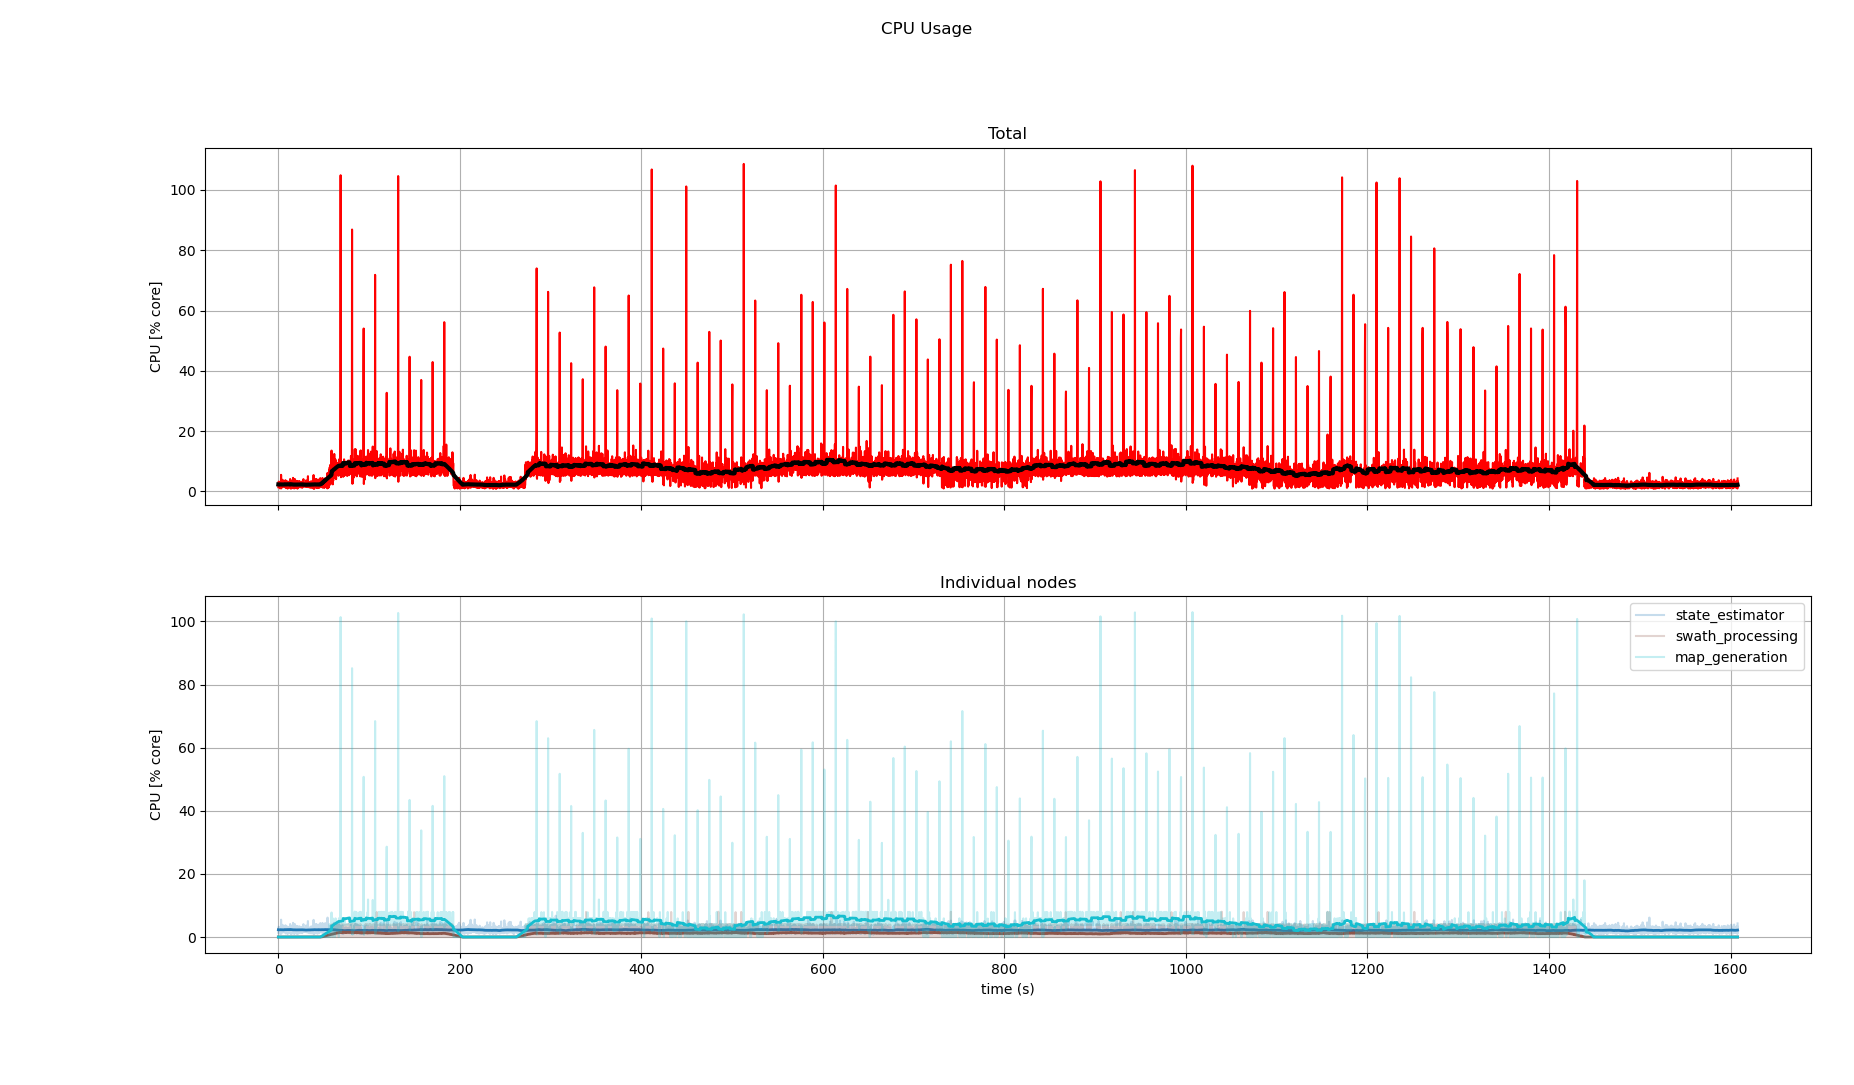
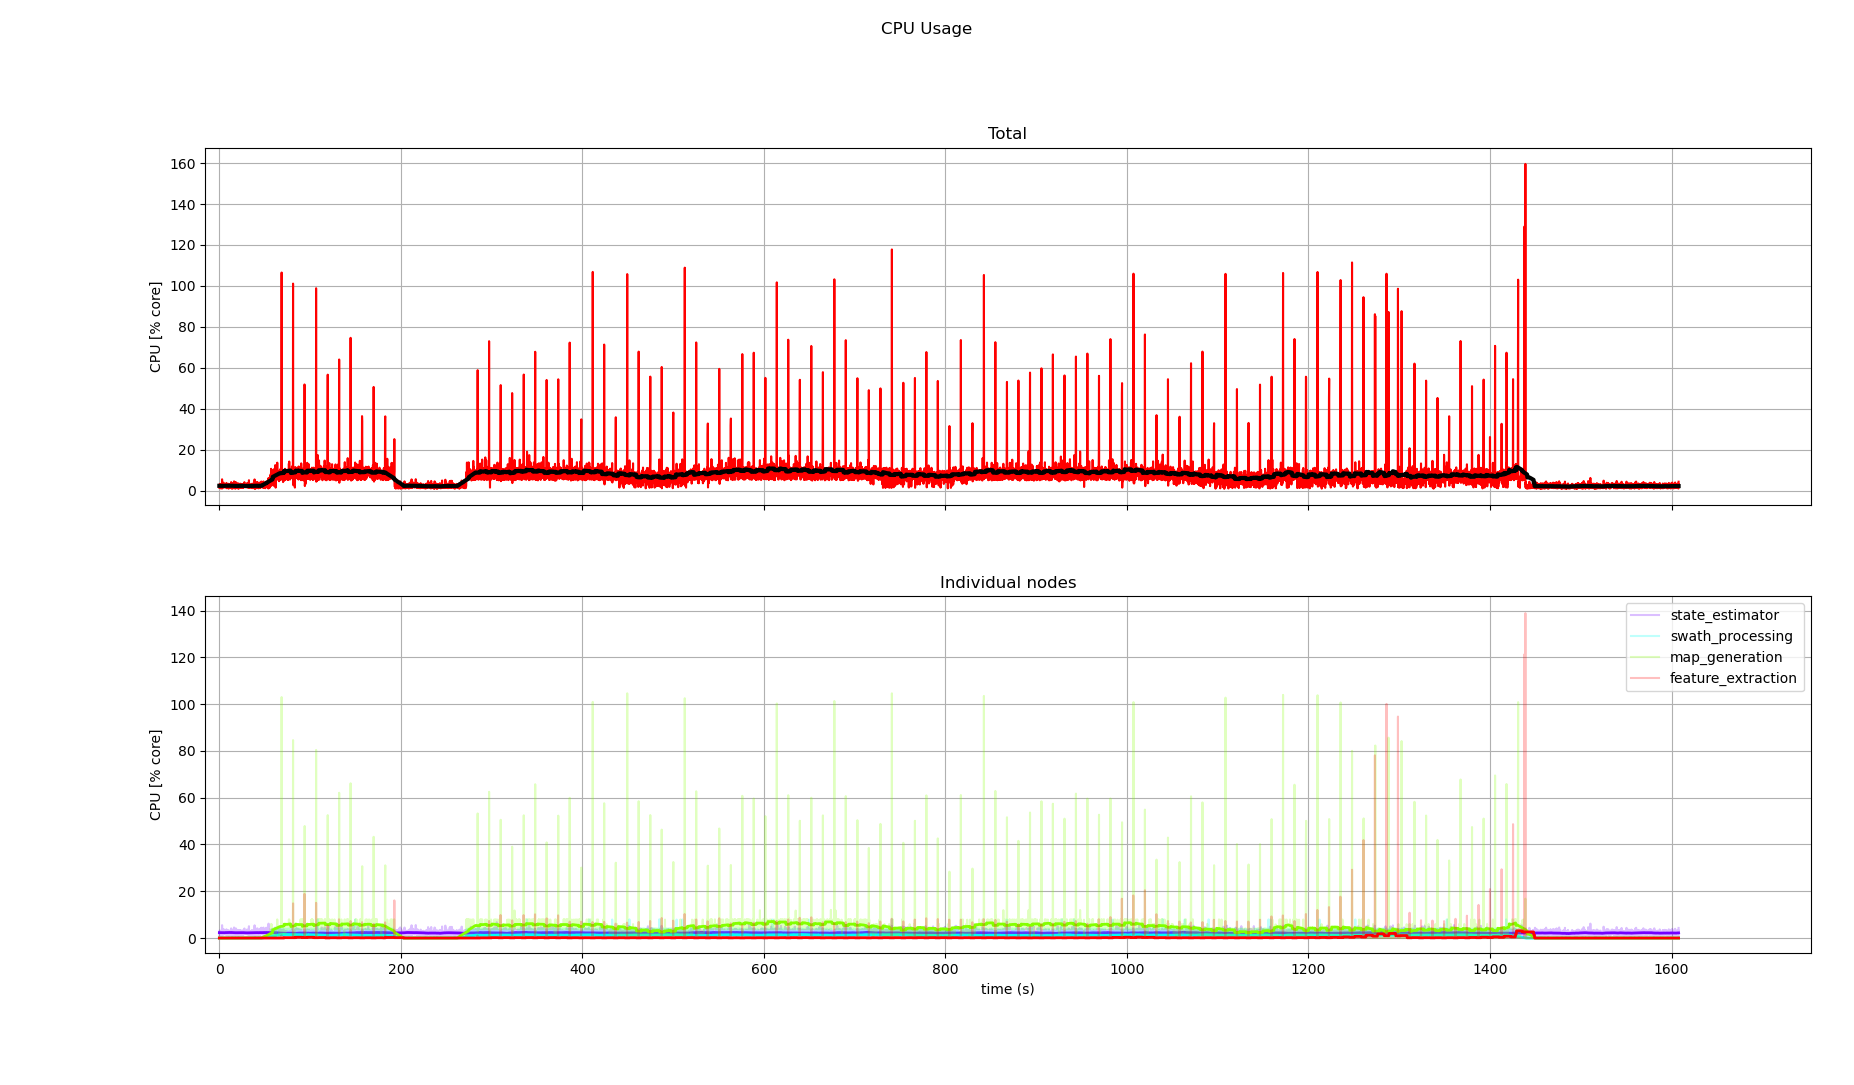
Added final performance analysis

diff --git a/analysis/utils.py b/analysis/utils.py
@@ -3,6 +3,7 @@ import pandas as pd
 import numpy as np
 import matplotlib.pyplot as plt
 
+# HELPERS ----------
 ROOT = os.path.dirname(os.path.abspath(__file__))
 
 def resolve_dataset_paths(datasets):
@@ -11,6 +12,7 @@ def resolve_dataset_paths(datasets):
         resolved[name] = os.path.abspath(os.path.join(ROOT, "..", rel_path))
     return resolved
 
+# PERFORMANCE ----------
 def load_perf(path, t_start, t_stop, t_delta=5.0):
     df = pd.read_csv(path)
     df = df.copy().sort_values("t").reset_index(drop=True)
@@ -128,6 +130,12 @@ def add_sliding_mean(ax, x, y, window=100, color="black", linewidth=2.5):
         linewidth=linewidth
     )
 
+def get_distinct_colors(n, seed=42):
+    rng = np.random.default_rng(seed)
+    colors = plt.cm.hsv(np.linspace(0, 1, n, endpoint=False))
+    rng.shuffle(colors)
+    return colors
+
 def plot_metric(data, key, ylabel, title, total_color="black", window=100):
 
     fig, axes = plt.subplots(2, 1, sharex=True)
@@ -136,7 +144,7 @@ def plot_metric(data, key, ylabel, title, total_color="black", window=100):
     total = None
     t = None
 
-    colors = plt.cm.tab10(np.linspace(0, 1, len(data)))
+    colors = get_distinct_colors(len(data))
 
     for i, (name, d) in enumerate(data.items()):
 
@@ -191,6 +199,221 @@ def plot_metric(data, key, ylabel, title, total_color="black", window=100):
     axes[1].set_xlabel("time (s)")
     axes[1].set_title("Individual nodes")
     axes[1].legend()
+    axes[1].grid(True)
+
+    plt.tight_layout()
+    plt.show()
+
+# SCHEDULABILITY ----------
+def load_schedulability_from_df(df, t_start, t_stop, median_samples=20):
+    df = df.copy().sort_values("t").reset_index(drop=True)
+    df = df[(df["t"] >= t_start) & (df["t"] <= t_stop)].copy()
+
+    if len(df) < 2:
+        return {
+            "t": np.array([0.0]),
+            "utilization": np.array([0.0]),
+            "period_s": np.array([0.0]),
+        }
+
+    # Local period between activations of THIS logical task.
+    df["period_s"] = df["t"].diff()
+
+    # First sample has no previous period, so use the next available period.
+    df.loc[df.index[0], "period_s"] = df["t"].iloc[1] - df["t"].iloc[0]
+    df = df[df["period_s"] > 0.0].copy()
+
+    # Adaptive T_i: rolling median of this task's own activation period.
+    df["period_median_s"] = df["period_s"].rolling(
+        window=median_samples,
+        center=True,
+        min_periods=1,
+    ).median()
+
+    # Utilization: U = C / T_i.
+    df["utilization"] = df["runtime_s"] / df["period_median_s"]
+    df["t_rel"] = df["t"] - t_start
+
+    return {
+        "t": df["t_rel"].to_numpy(),
+        "utilization": df["utilization"].to_numpy(),
+        "period_s": df["period_median_s"].to_numpy(),
+    }
+
+
+def load_schedulability(path, t_start, t_stop, median_samples=20):
+    df = pd.read_csv(path)
+    return load_schedulability_from_df(
+        df,
+        t_start,
+        t_stop,
+        median_samples=median_samples,
+    )
+
+
+def split_runtime_categories(
+    df,
+    factor=2.0,
+    low_name="fast_task",
+    high_name="slow_task",
+):
+    df = df.copy().sort_values("t").reset_index(drop=True)
+
+    median_runtime = df["runtime_s"].median()
+    threshold = median_runtime * factor
+
+    low_df = df[df["runtime_s"] <= threshold].copy()
+    high_df = df[df["runtime_s"] > threshold].copy()
+
+    return {
+        low_name: low_df,
+        high_name: high_df,
+    }
+
+
+def load_split_schedulability(
+    path,
+    t_start,
+    t_stop,
+    median_samples=20,
+    factor=2.0,
+    low_name="fast_task",
+    high_name="slow_task",
+):
+    df = pd.read_csv(path)
+
+    split_dataframes = split_runtime_categories(
+        df,
+        factor=factor,
+        low_name=low_name,
+        high_name=high_name,
+    )
+
+    data = {}
+
+    for name, split_df in split_dataframes.items():
+        data[name] = load_schedulability_from_df(
+            split_df,
+            t_start,
+            t_stop,
+            median_samples=median_samples,
+        )
+
+    return data
+
+
+def load_all_schedulability(
+    datasets,
+    t_start,
+    t_stop,
+    median_samples=20,
+    split_datasets=None,
+):
+    data = {}
+    paths = resolve_dataset_paths(datasets)
+
+    if split_datasets is None:
+        split_datasets = {}
+
+    for name, path in paths.items():
+        if name in split_datasets:
+            cfg = split_datasets[name]
+
+            split_data = load_split_schedulability(
+                path,
+                t_start,
+                t_stop,
+                median_samples=median_samples,
+                factor=cfg.get("factor", 2.0),
+                low_name=cfg.get("low_name", f"{name}_fast"),
+                high_name=cfg.get("high_name", f"{name}_slow"),
+            )
+
+            data.update(split_data)
+        else:
+            data[name] = load_schedulability(
+                path,
+                t_start,
+                t_stop,
+                median_samples=median_samples,
+            )
+
+    return data
+
+
+def build_total_utilization(data):
+    # Use all real event timestamps. No fixed scheduler time window.
+    all_t = np.unique(np.concatenate([d["t"] for d in data.values()]))
+    total = np.zeros_like(all_t)
+
+    for d in data.values():
+        u = np.interp(
+            all_t,
+            d["t"],
+            d["utilization"],
+            left=0.0,
+            right=0.0,
+        )
+        total += u
+
+    return all_t, total
+
+
+def plot_schedulability(data, title="Schedulability", smooth_window=100):
+    fig, axes = plt.subplots(2, 1, sharex=True)
+    fig.suptitle(title)
+
+    colors = get_distinct_colors(len(data))
+
+    t_total, total = build_total_utilization(data)
+
+    axes[0].plot(
+        t_total,
+        total,
+        color="black",
+        alpha=0.35,
+        label="total raw",
+    )
+
+    add_sliding_mean(
+        axes[0],
+        t_total,
+        total,
+        window=smooth_window,
+        color="black",
+        linewidth=3,
+    )
+
+    for i, (name, d) in enumerate(data.items()):
+        axes[1].plot(
+            d["t"],
+            d["utilization"],
+            color=colors[i],
+            alpha=0.25,
+            label=name,
+        )
+
+        add_sliding_mean(
+            axes[1],
+            d["t"],
+            d["utilization"],
+            window=smooth_window,
+            color=colors[i],
+            linewidth=2,
+        )
+
+    axes[0].axhline(1.0, color="red", linestyle="--", linewidth=1.5, label="U = 1")
+    axes[1].axhline(1.0, color="red", linestyle="--", linewidth=1.0)
+
+    axes[0].set_ylabel("Utilization")
+    axes[0].set_title("Total")
+    axes[0].legend(loc="upper right")
+    axes[0].grid(True)
+
+    axes[1].set_ylabel("Utilization")
+    axes[1].set_xlabel("time (s)")
+    axes[1].set_title("Individual nodes")
+    axes[1].legend(loc="upper right")
     axes[1].grid(True)
 
     plt.tight_layout()

diff --git a/analysis/schedulability_analysis.py b/analysis/schedulability_analysis.py
@@ -1,11 +1,9 @@
-from utils import load_all_perf, plot_metric
+from utils import load_all_schedulability, plot_schedulability
 
 
 
-WINDOW = 0.2
 T_START = 1756381030.0
 T_STOP  = 1756382638.0
-T_DELTA = 5.0
 
 
 
@@ -19,11 +17,21 @@ DATASETS = {
 
 
 def main():
-    data = load_all_perf(DATASETS, WINDOW, T_START, T_STOP, T_DELTA)
+    sched = load_all_schedulability(
+        DATASETS,
+        T_START,
+        T_STOP,
+        median_samples=2,
+        split_datasets={
+            "map_generation": {
+                "factor": 2.0,
+                "low_name": "map_generation",
+                "high_name": "map_extraction",
+            }
+        },
+    )
 
-    plot_metric(data, "runtime", "Runtime [ms]", "Callback Runtime", total_color="blue")
-    plot_metric(data, "cpu", "CPU [% core]", "CPU Usage", total_color="red")
-    plot_metric(data, "ram", "RAM [MB]", "RAM Usage", total_color="green")
+    plot_schedulability(sched, title="Schedulability", smooth_window=100)
 
 if __name__ == "__main__":
     main()

diff --git a/analysis/README.md b/analysis/README.md
@@ -8,6 +8,7 @@ Unlike the analysis tools inside individual ROS2 packages in `src/`, which focus
 - node runtime and callback execution time  
 - CPU usage  
 - RAM usage  
+- Schedulability
 
 The goal is to evaluate how the **entire ROS2 pipeline behaves during experiments** and identify potential performance bottlenecks.
 
